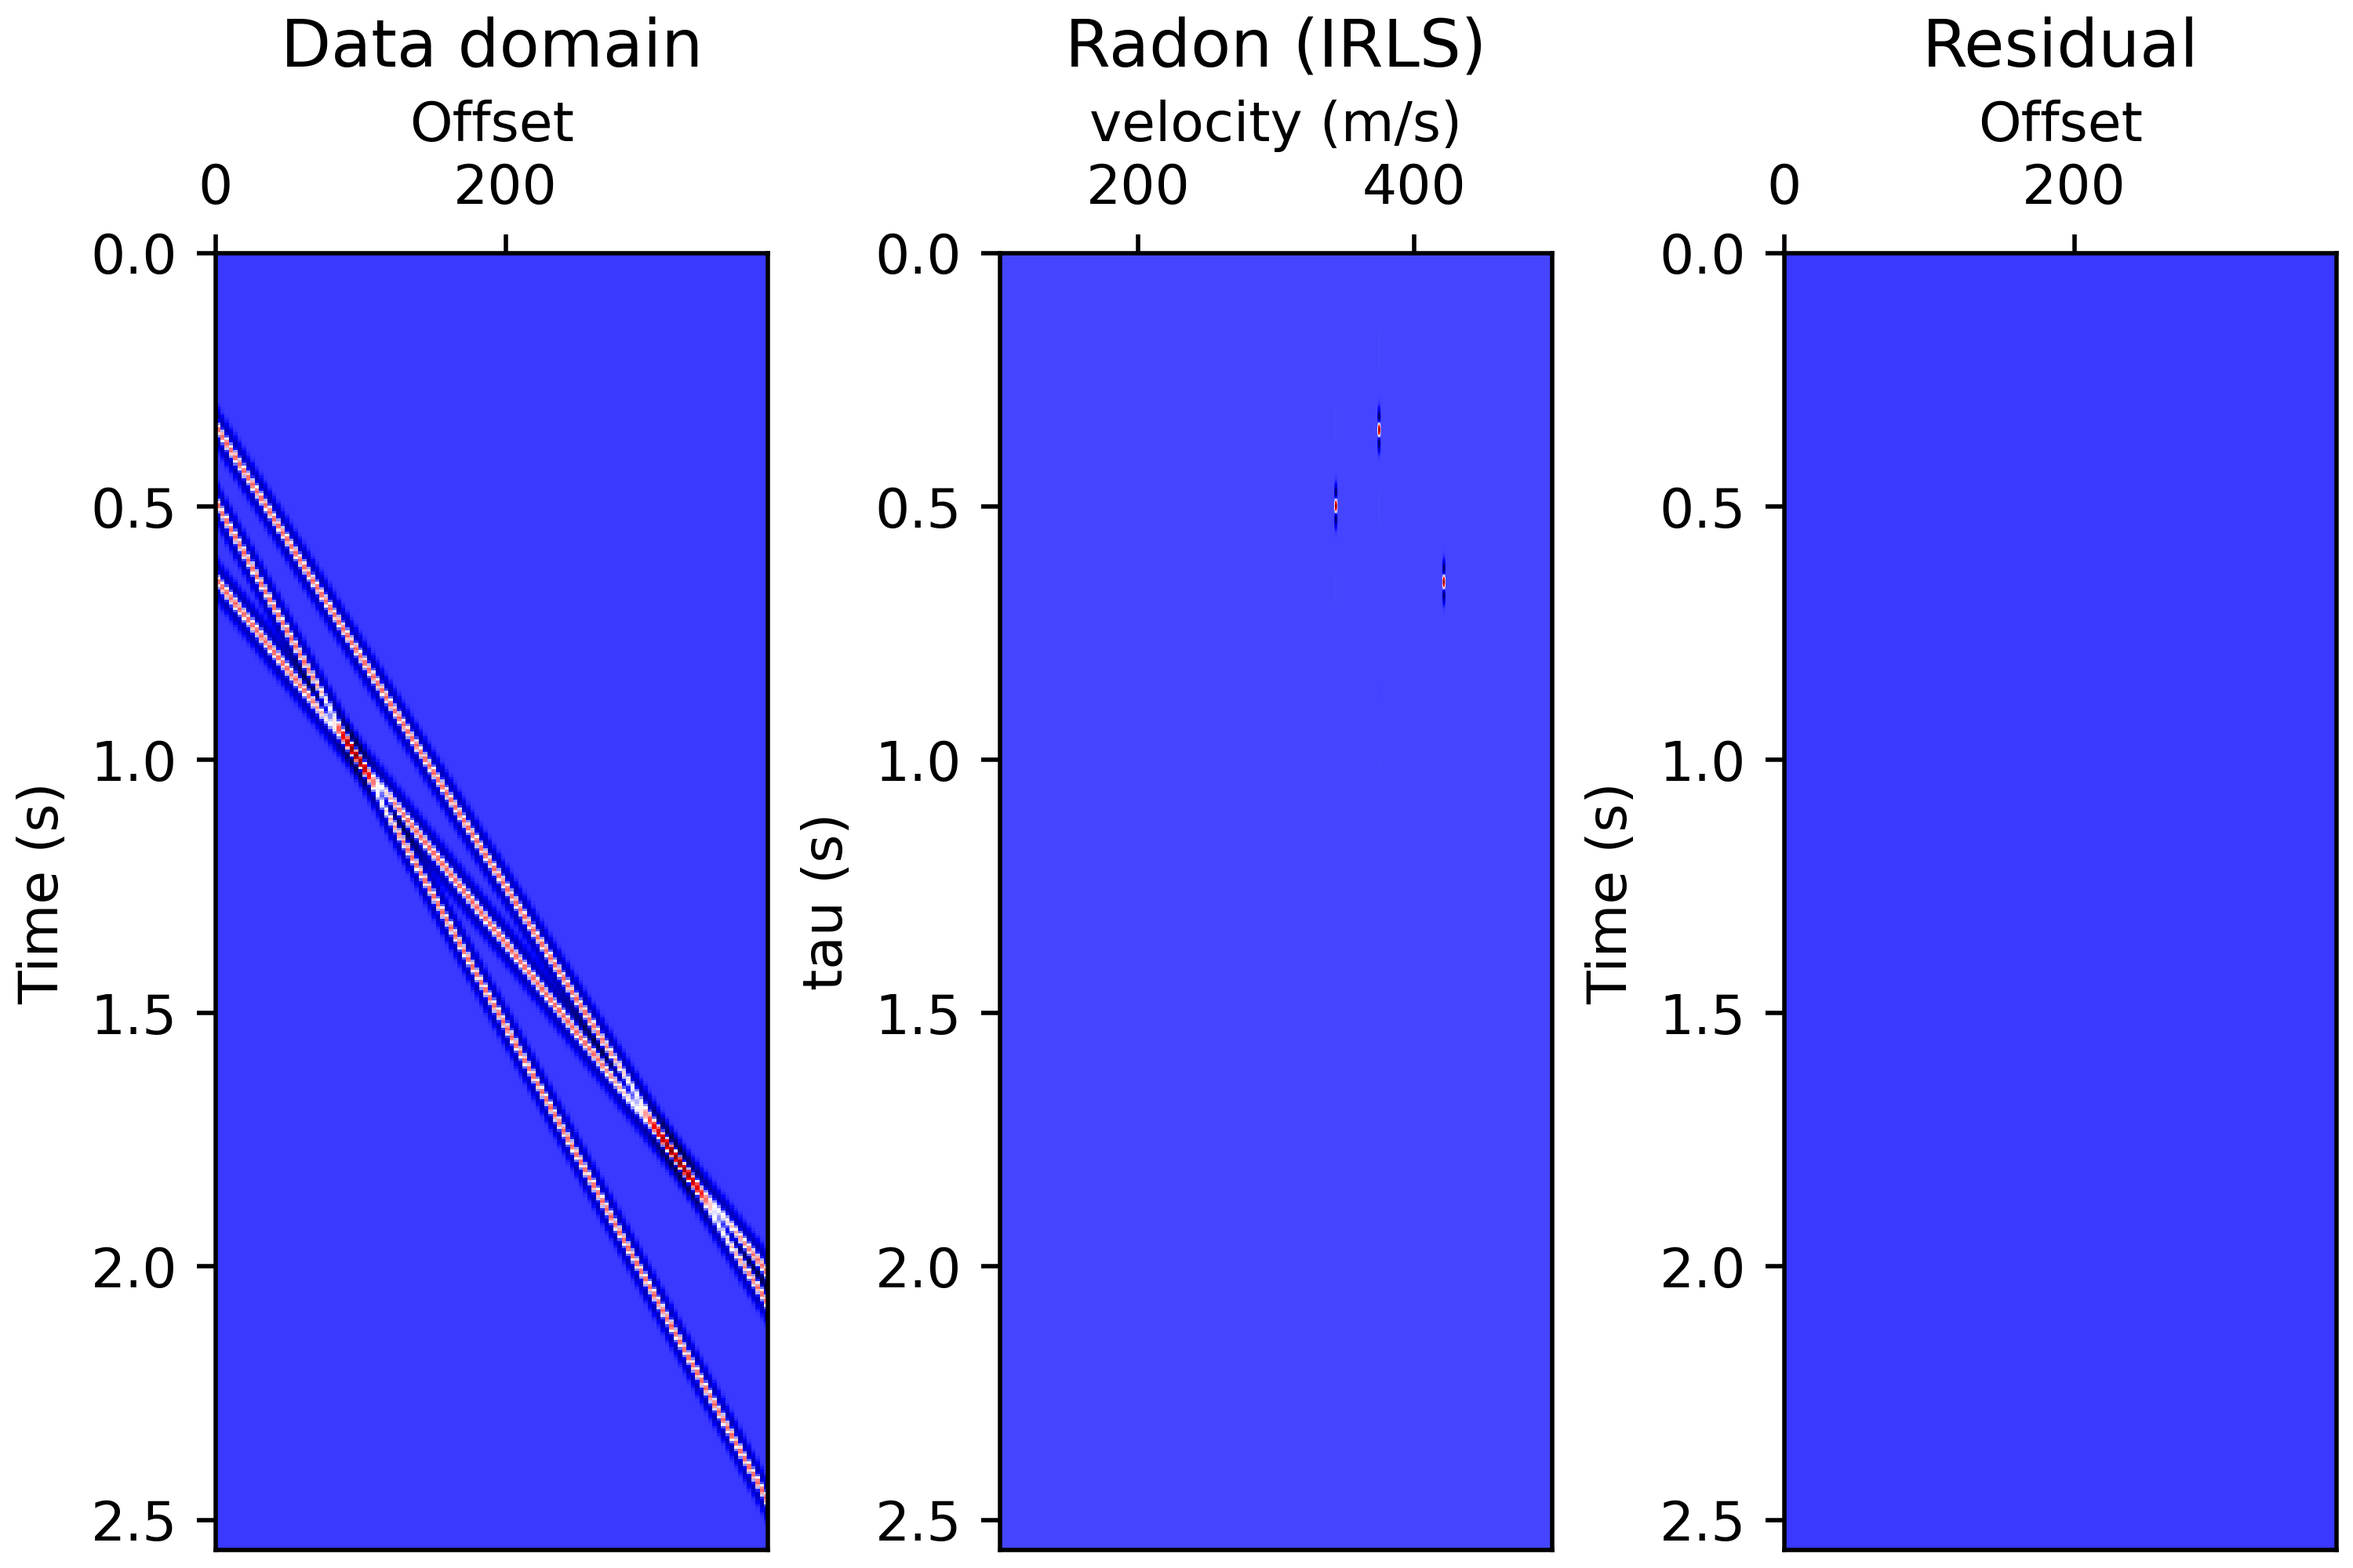
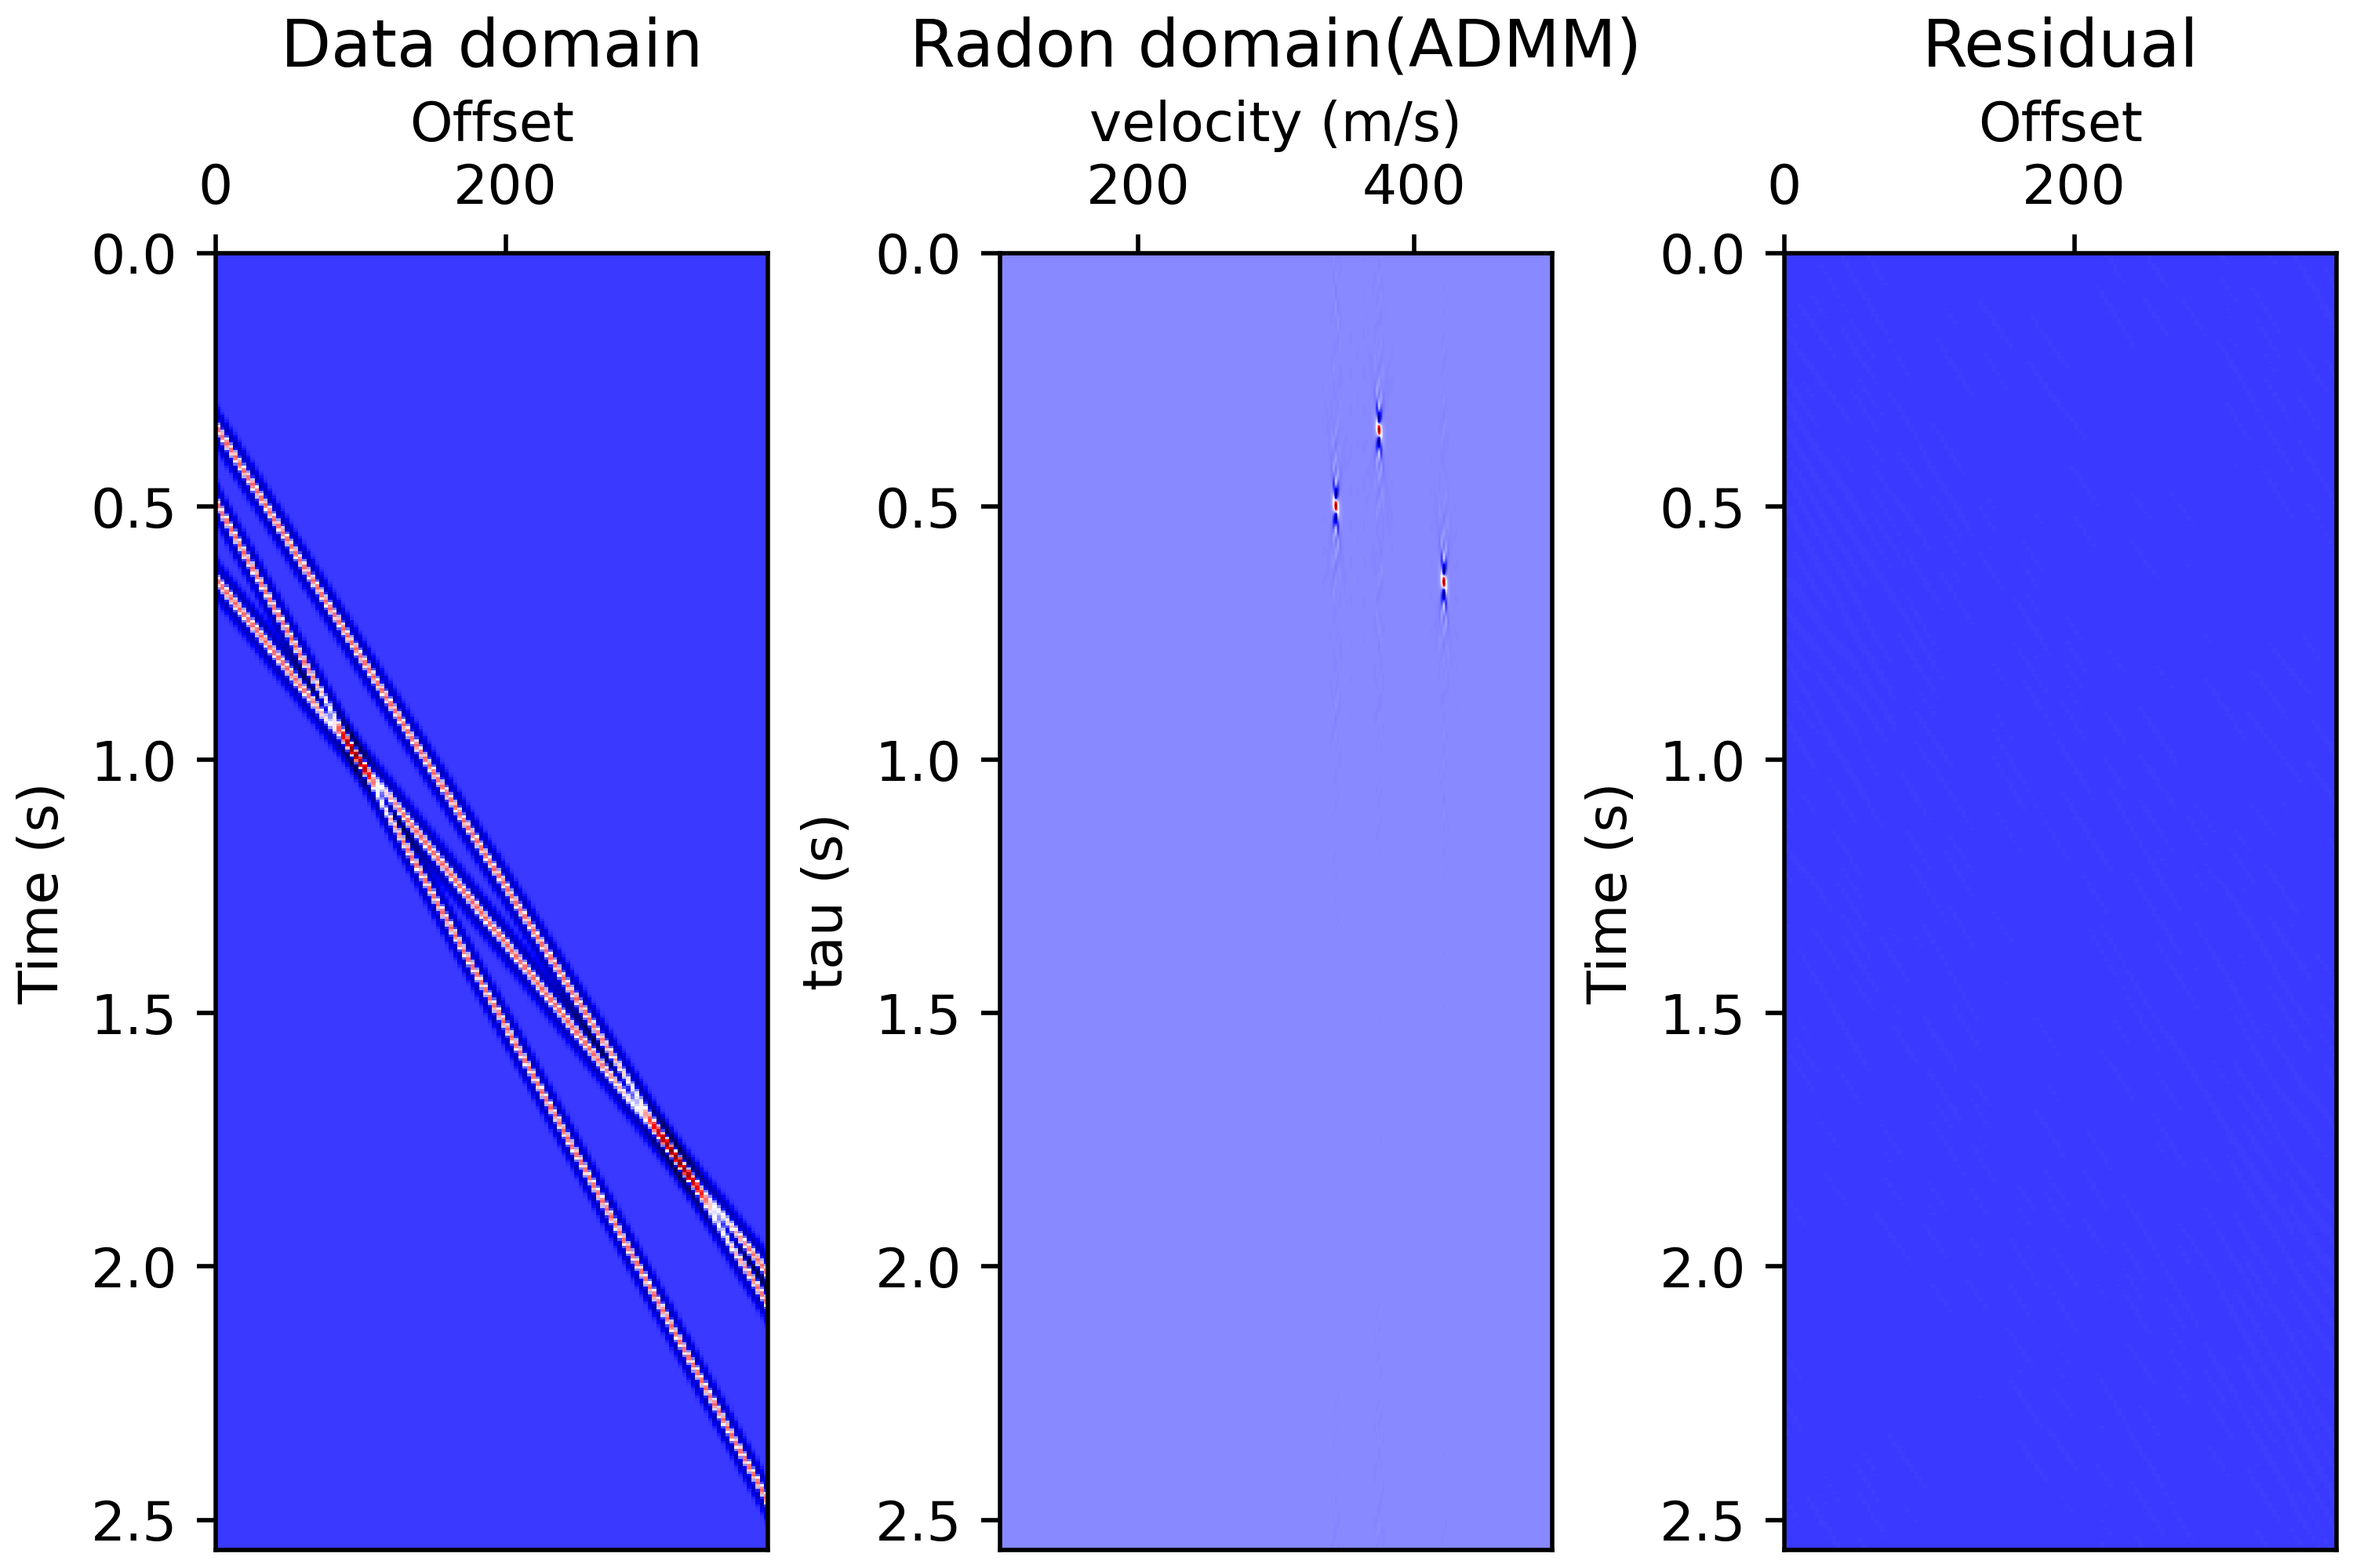
ADD ADMM
add ADMM algorithm for linear slant stack

Changed region(s): [[0.403, 0.155, 0.682, 0.992], [0.372, 0.0, 0.713, 0.062]]

diff --git a/src/Demo.py b/src/Demo.py
@@ -36,6 +36,10 @@ qmax = 1/100
 d = rt.Inverse_Radon_Transform(m, h, dt, qmin, qmax)
 
 
+
+
+
+
 #%% Adjoin 
 
 
@@ -197,6 +201,62 @@ ax.set_title('Residual')
 
 
 plt.savefig('IRLS.png', dpi=500, transparent = True)
+
+
+#%%  ADMM algorithm 
+
+
+# Radon transform 
+
+M = rt.Radon_Transform(d, h, dt, qmin, qmax, nq, mode = "ADMM", mu = 0.9 , gamma = 3, maxiter = 50)
+
+#% Tau-P representation
+
+drec = rt.Inverse_Radon_Transform(M, h, dt, qmin, qmax)
+
+
+
+fig, axs = plt.subplots(1, 3, constrained_layout=True)
+
+ax = axs[0]
+
+ax.imshow(d, aspect='auto',cmap ='seismic', extent=[h[0], h[-1],  dt*nt, 0 ], clim =[np.min(d), np.max(d)])
+
+ax.xaxis.set_label_position('top')
+ax.xaxis.tick_top()
+
+ax.set_ylabel(' Time (s)')
+ax.set_xlabel('Offset')
+
+
+#plt.colorbar()
+
+ax.set_title('Data domain')
+
+
+ax = axs[1]
+ax.imshow(M[:,::-1], aspect='auto',cmap ='seismic', extent=[1/qmax, 1/qmin,  dt*nt, 0])
+
+ax.xaxis.set_label_position('top')
+ax.xaxis.tick_top()
+ax.set_ylabel('tau (s)')
+ax.set_xlabel('velocity (m/s)')
+ax.set_title('Radon domain(ADMM)')
+
+
+ax = axs[2]
+ax.imshow(d - drec, aspect='auto',cmap ='seismic', extent=[h[0], h[-1],  dt*nt, 0 ], clim =[np.min(d), np.max(d)])
+
+ax.xaxis.set_label_position('top')
+ax.xaxis.tick_top()
+ax.set_ylabel(' Time (s)')
+ax.set_xlabel('Offset')
+ax.set_title('Residual')
+
+
+plt.savefig('IRLS.png', dpi=500, transparent = True)
+
+
 
 
 
